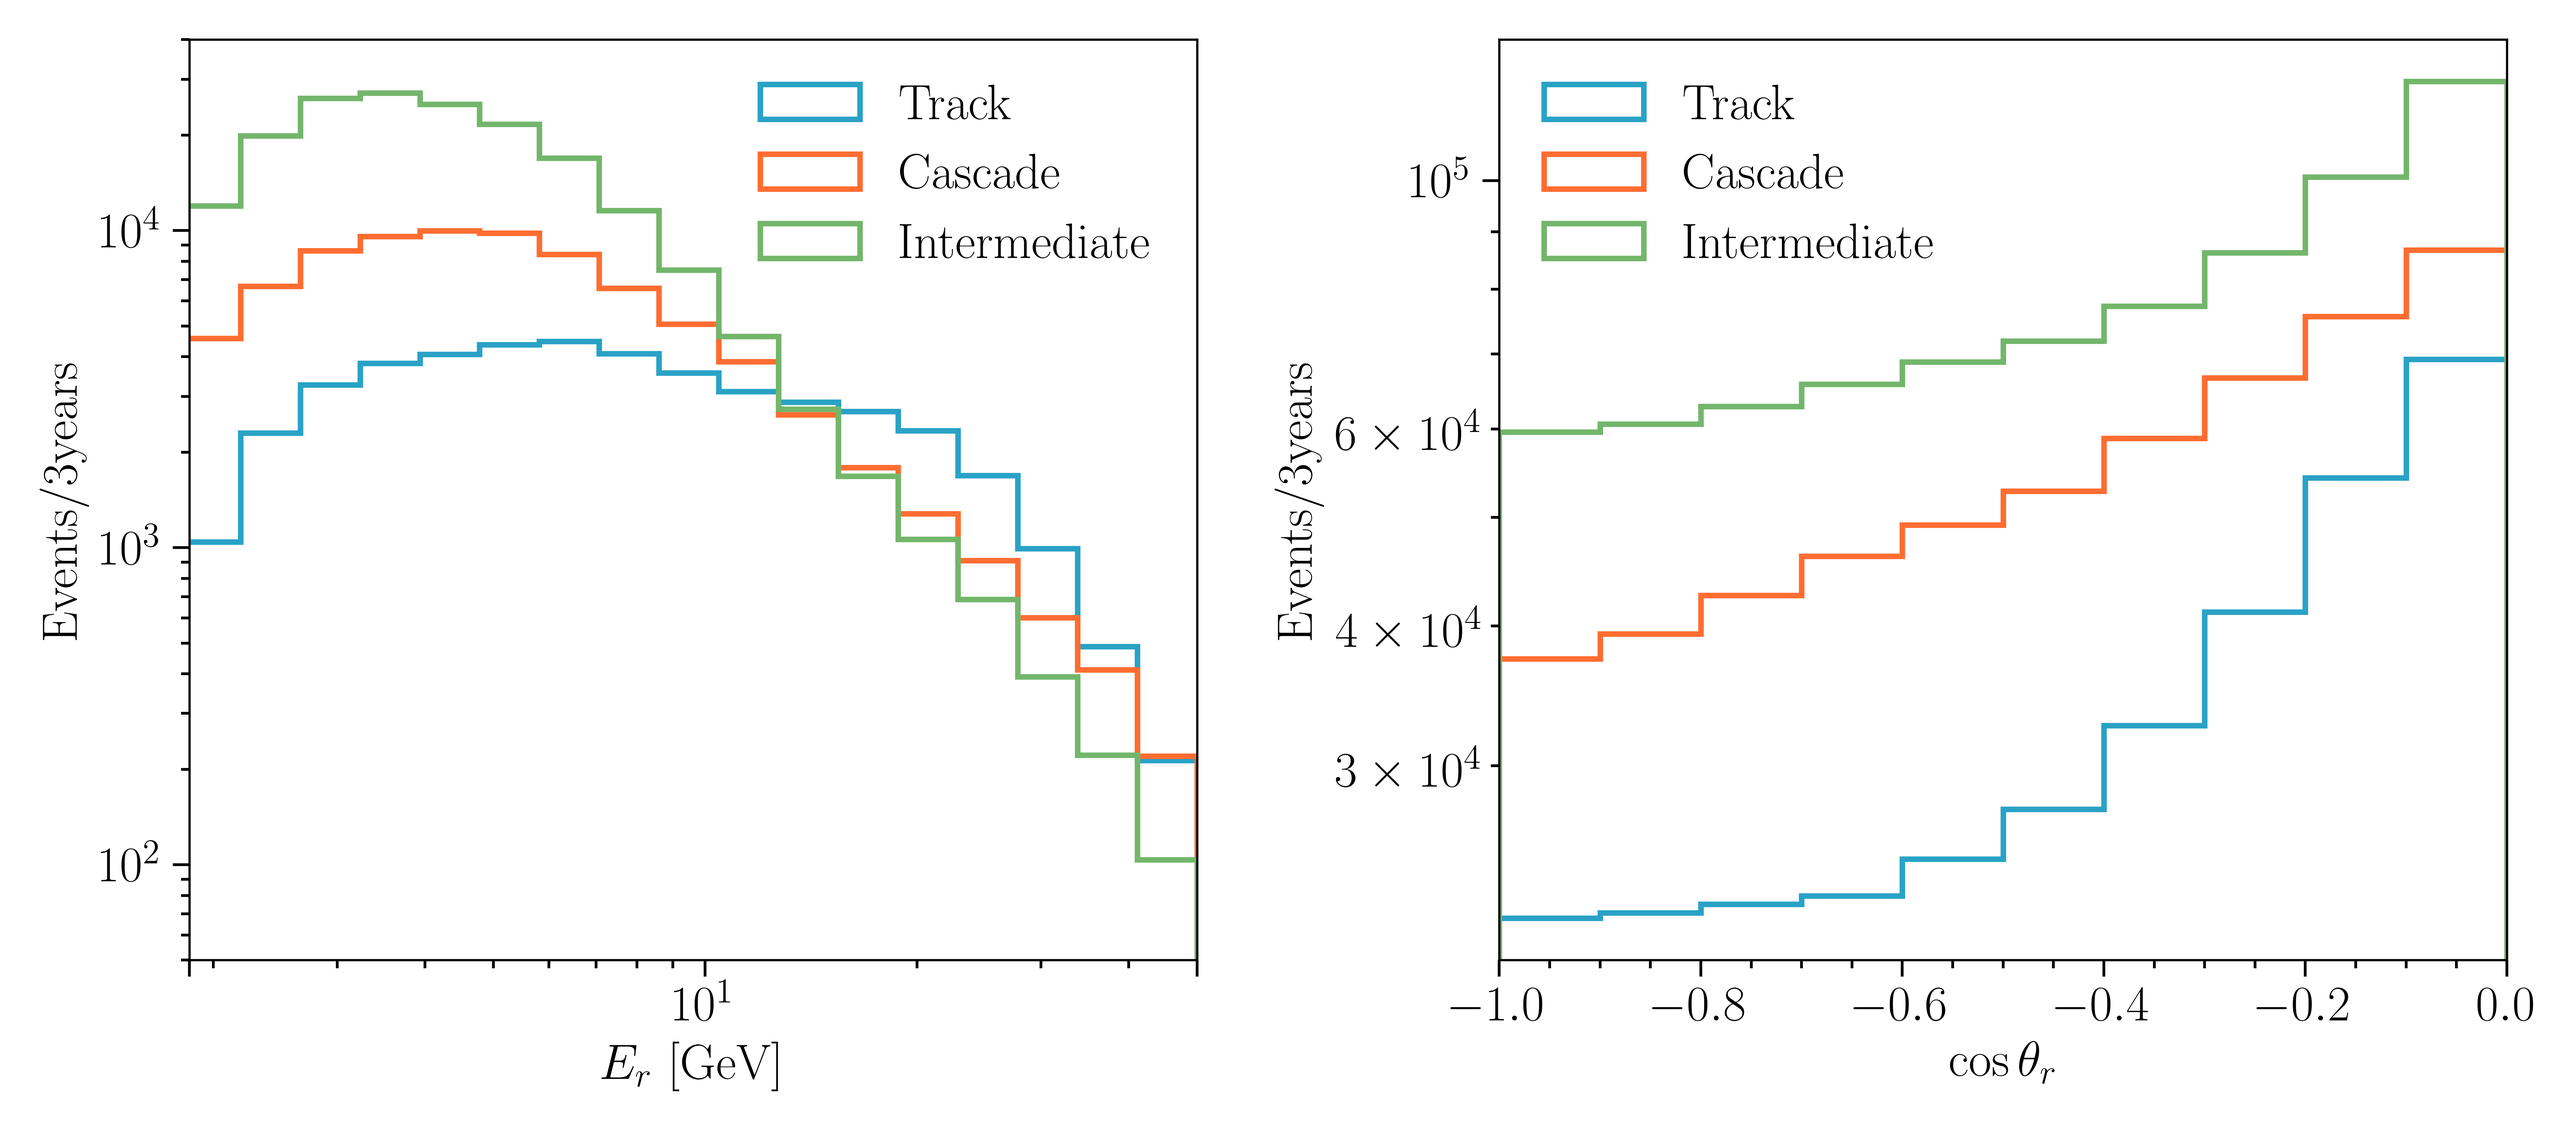
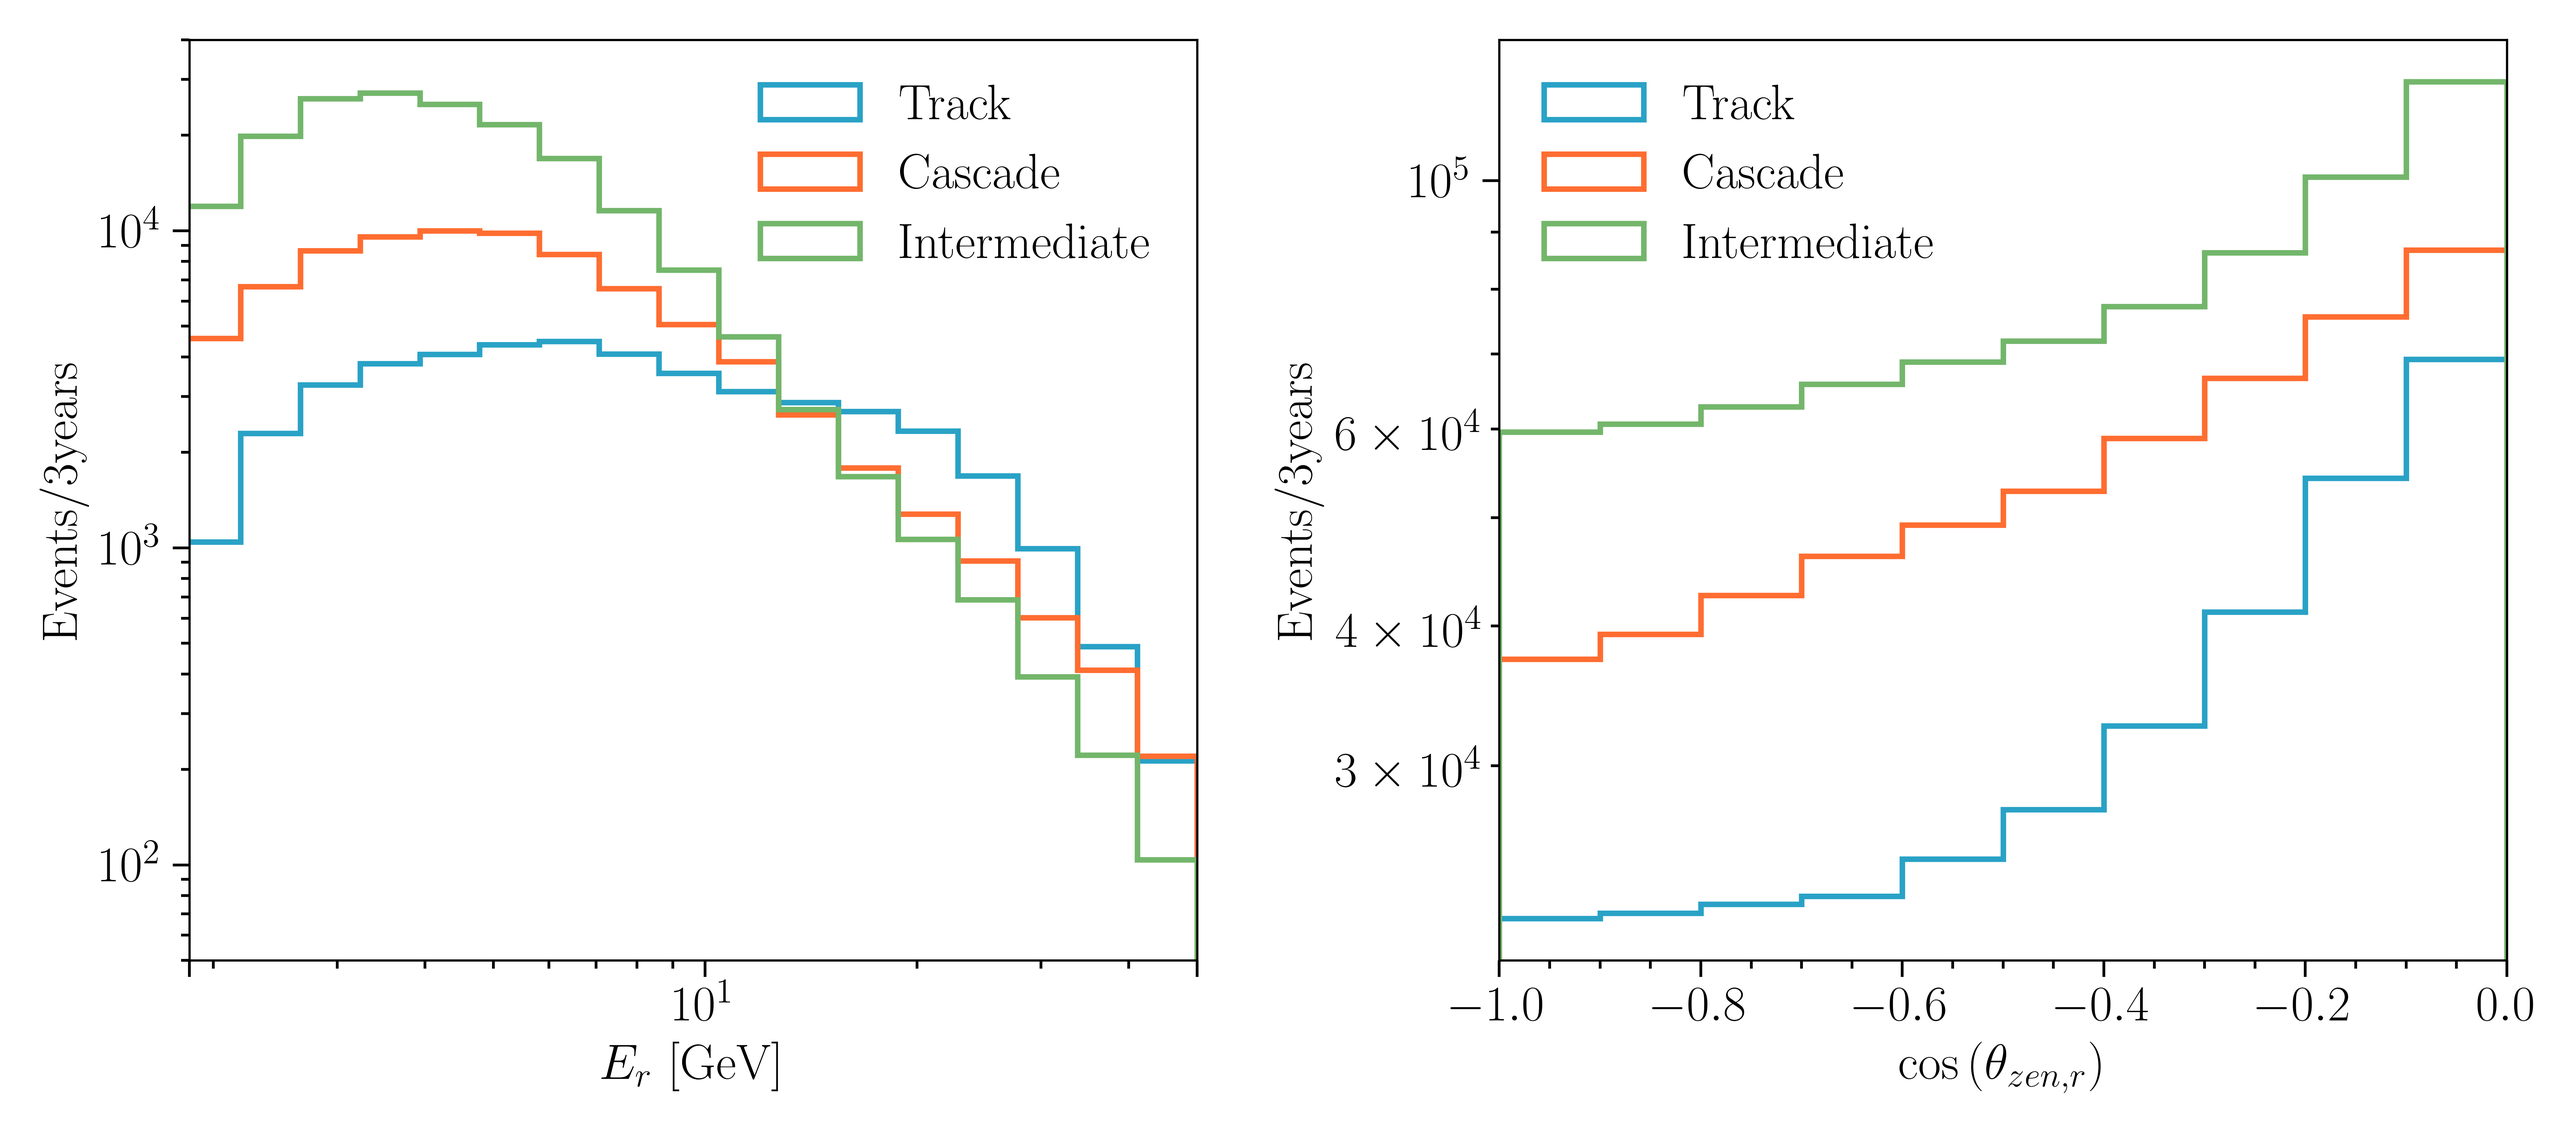
updating some plot legends and labels

diff --git a/sources/ORCA/fluxplot.py b/sources/ORCA/fluxplot.py
@@ -112,7 +112,7 @@ ax.plot(HKKM11_nue_xval, HKKM11_nue_yval, linestyle = '--', linewidth = 2.4,  la
 ax.plot(HKKM11_numu_xval, HKKM11_numu_yval, linestyle = '--', linewidth = 2.4, label = r"HKKM11 $\nu_\mu$")
 
 # now label the experiment energy sensitivity regions
-ax.axvspan(10**(-1), 10**(0.7), alpha = 0.2)
+ax.axvspan(10**(-1), 200, alpha = 0.2)
 ax.axvspan(1, 50, alpha = 0.3, color = "lightgreen")
 ax.axvspan(0.4, 1.5 * 10 ** 2, alpha = 0.2, color = "orange")
 
@@ -124,16 +124,16 @@ ax.axvspan(0.4, 1.5 * 10 ** 2, alpha = 0.2, color = "orange")
 # plt.text(1.3, 10**(-8.6), r"IceCube Upgrade", fontsize = 18, color = 'peru')
 
 # Now plot the upper panel
-ax2.hist(ICbin[:-1], ICbin, weights = IChist / IC.widths, label=r"IceCube Upgrade Effective Volume", lw = 0, color = "orange", alpha = 0.4)
+ax2.hist(ICbin[:-1], ICbin, weights = IChist / IC.widths, label=r"IceCube Upgrade", lw = 0, color = "orange", alpha = 0.4)
 ax2.hist(ORCA.e_bin[:-1], ORCA.e_bin, weights = ORCA.evol + ORCA.ebarvol + ORCA.muvol + ORCA.mubarvol\
-					+ ORCA.tauvol + ORCA.taubarvol + ORCA.ncvol + ORCA.ncbarvol, label=r"ORCA Effective Volume", lw = 0 , color = "lightgreen", alpha = 0.4)
-ax2.hist(SKbins[:-1], SKbins, weights = SKweights, label=r"Super-K Effective Volume", lw = 0, alpha = 0.3)
+					+ ORCA.tauvol + ORCA.taubarvol + ORCA.ncvol + ORCA.ncbarvol, label=r"ORCA", lw = 0 , color = "lightgreen", alpha = 0.4)
+ax2.hist(SKbins[:-1], SKbins, weights = SKweights, label=r"Super-K Gd", lw = 0, alpha = 0.3)
 ax.set_ylim(10**(-6), 10**(-1))
 ax2.set_yscale('log')
 ax2.legend(fontsize = 14)
 
 # set the x axis range
-ax.set_xlim(10**(-1), 1.5 * 10 ** 2)
+ax.set_xlim(10**(-1), 2 * 10 ** 2)
 
 ax.legend(loc = 3, fontsize = 14)
 plt.subplots_adjust(hspace=0.03)

diff --git a/sources/ORCA/paper.py b/sources/ORCA/paper.py
@@ -948,15 +948,15 @@ def ORCA_zenith_resolution():
     plot_zen_top = f_zen_top(plot_error_zen)
     plot_zen_bot = f_zen_bot(plot_error_zen)
 
-    fig, axes = plt.subplots(nrows = 2, ncols = 1, figsize = (7, 9), constrained_layout = True, sharex = True, gridspec_kw = {'height_ratios':[1, 2]})
+    fig, axes = plt.subplots(nrows = 2, ncols = 1, figsize = (9, 9), constrained_layout = True, sharex = True, gridspec_kw = {'height_ratios':[1, 2]})
     ax3 = axes[0]
     ax3.set_ylim(-0.2, 0.2)
     ax1 = axes[1]
     im1 = ax1.pcolor(X, Y, Z.T, cmap = "plasma", norm = LogNorm(), alpha = 0.7)
     ax1.set_xlim(plot_start, plot_end)
-    ax1.set_xlabel(r"$\cos \theta_\nu$")
+    ax1.set_xlabel(r"$\cos{(\theta_{zen})}$")
     ax1.set_ylim(-1, 1)
-    ax1.set_ylabel(r"$\cos \theta_\r$")
+    ax1.set_ylabel(r"$\cos{(\theta_{zen, r})}$")
     fig.colorbar(im1, orientation = "vertical", format = LogFormatterMathtext(), alpha = 0.7)
 
     # also plot the error bars
@@ -969,7 +969,7 @@ def ORCA_zenith_resolution():
     # ax3.errorbar(IC_bins_means, track_median_ratio, yerr = IC_track_ratio_err, fmt = 'o', fillstyle = 'none', capsize = 5, label = r"Energy Reco Error (Median, $15\%$ and $85\%$)")
     ax3.errorbar(ORCA_bins_means, median_errors, yerr = zen_error, fmt = 'o', fillstyle = 'none', capsize = 5, label = r"Energy Reco Error (Median, $15\%$ and $85\%$)")
     ax3.legend(fontsize = 15)
-    ax3.set_ylabel(r"$\cos \theta$ Error")
+    ax3.set_ylabel(r"$\cos{(\theta_{zen})}$ Error")
 
     # plt.show()
     plt.savefig("./new_paper_plots/Zenith_Resolution.png", bbox_inches = 'tight', pad_inches = 0.2)

diff --git a/sources/NewAnalysis/paper.py b/sources/NewAnalysis/paper.py
@@ -149,7 +149,7 @@ def reco_event_distribution():
 					 label="Intermediate", histtype="step")
 	# ax.set_xscale("log")
 	ax2.set_yscale("log")
-	ax2.set_xlabel(r"$\cos \theta_r$")
+	ax2.set_xlabel(r"$\cos{(\theta_{zen, r})}$")
 	# ax2.set_ylim(2 * 10 ** 2, 2 * 10 ** 4 )
 	ax2.set_xlim(-1, 0)
 	ax2.set_ylabel(r"Events/3years")
